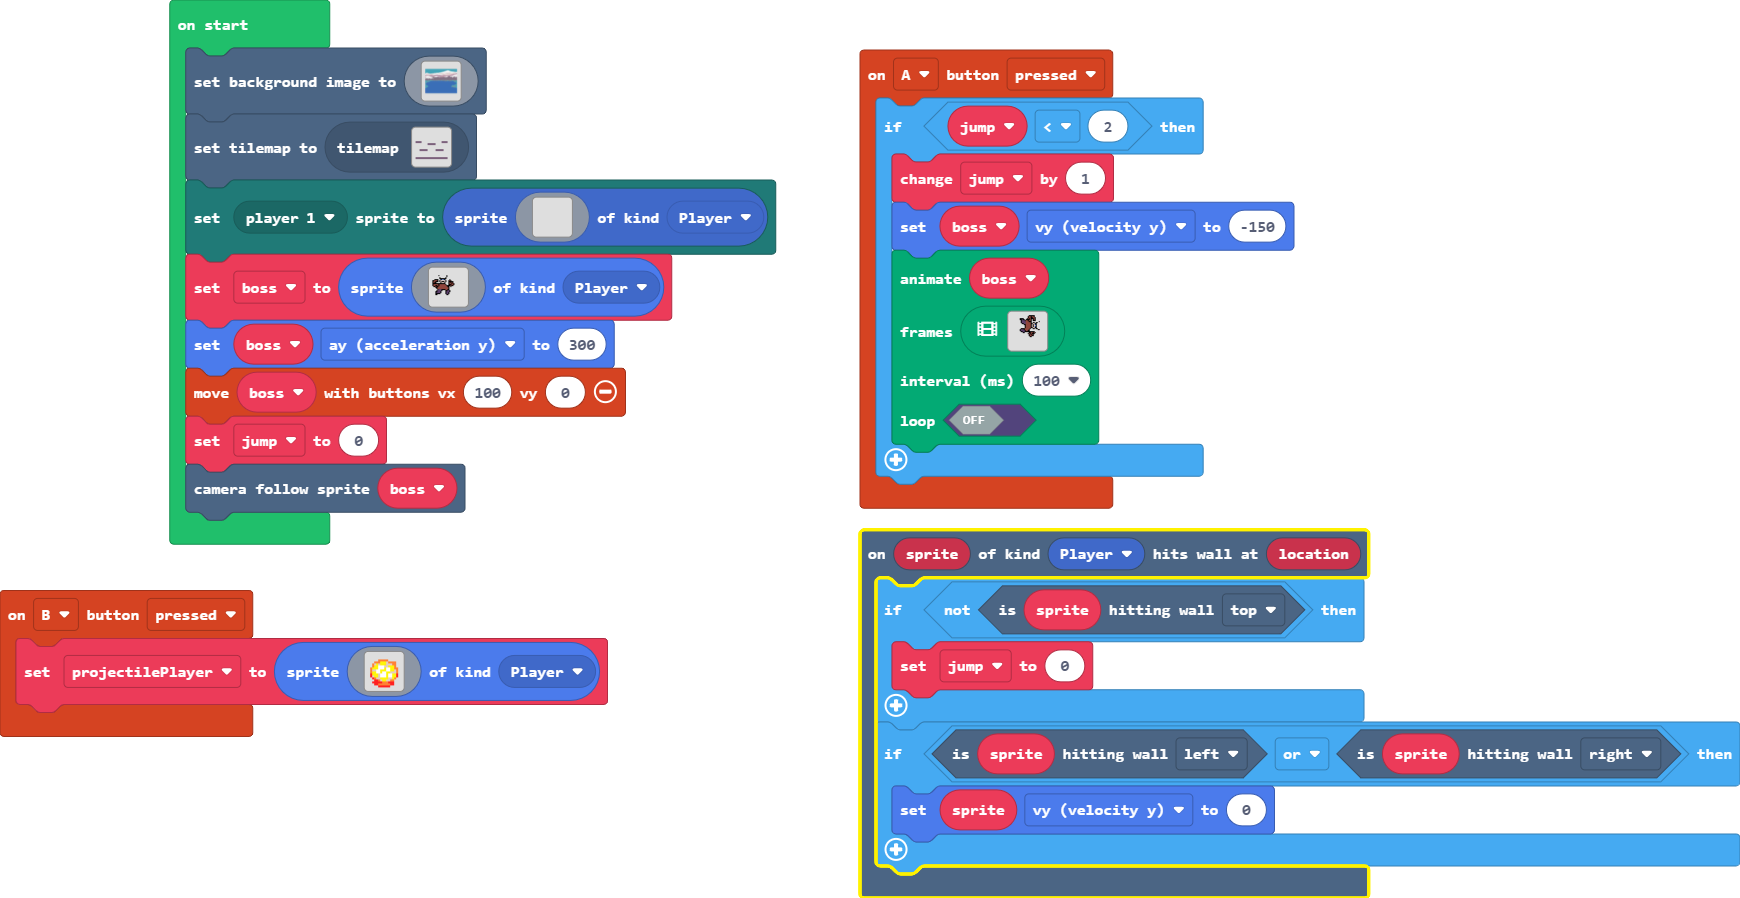
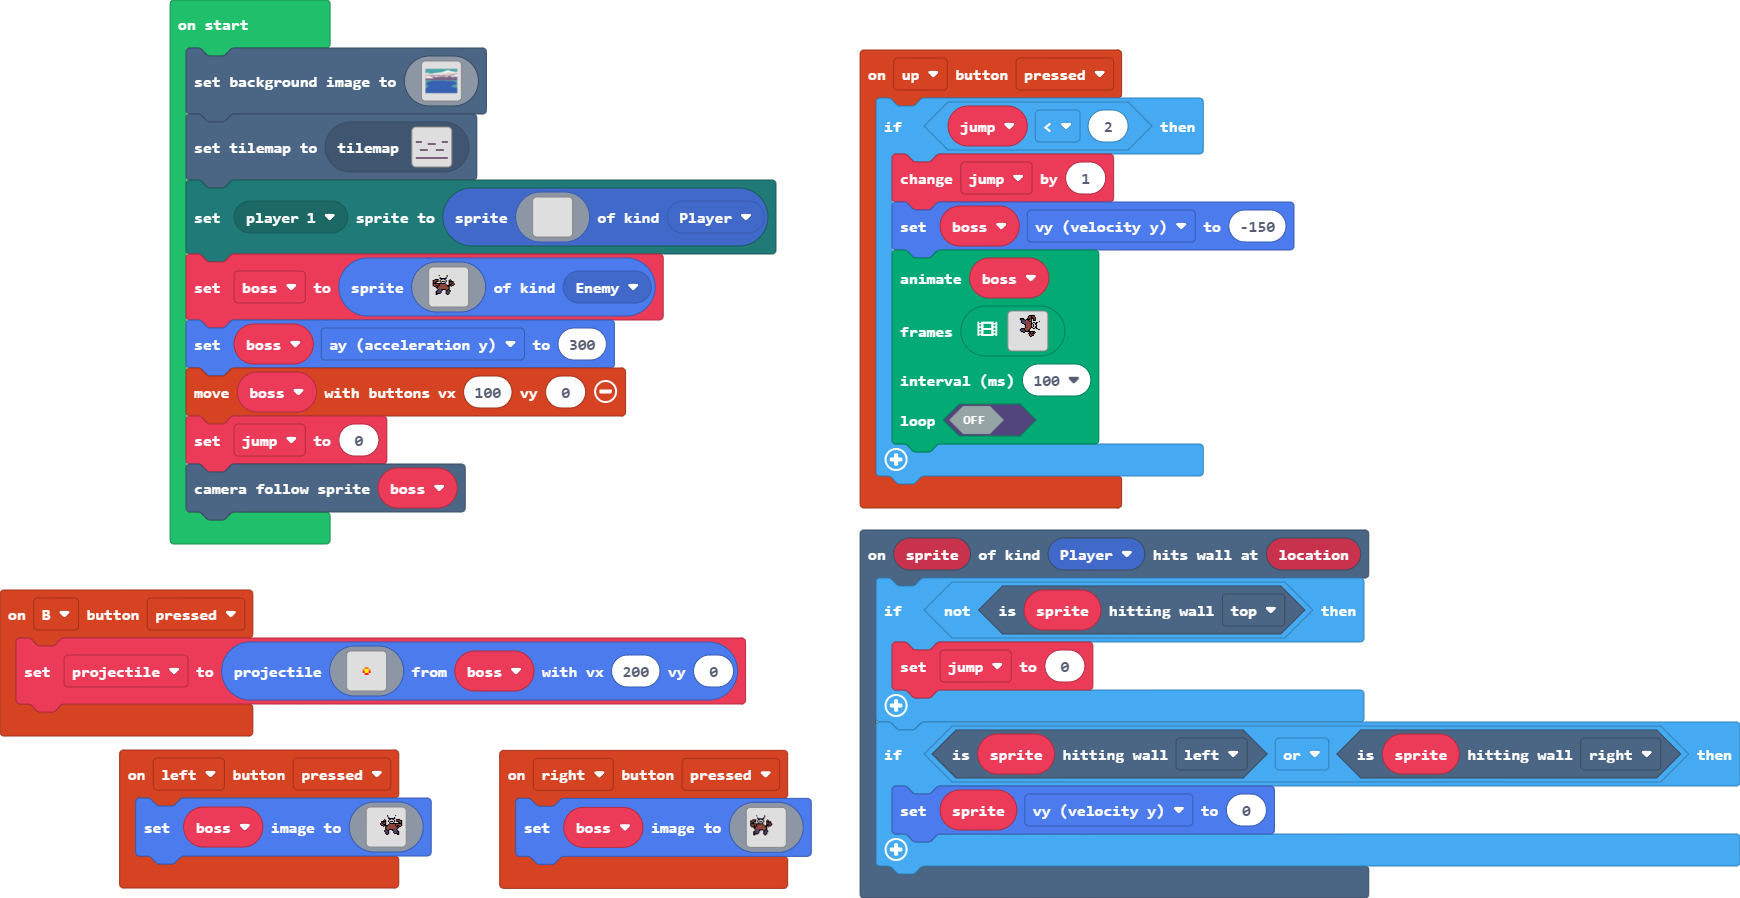
Update main.blocks, main.ts

diff --git a/main.ts b/main.ts
@@ -1,32 +1,4 @@
-scene.onHitWall(SpriteKind.Player, function (sprite, location) {
-    if (!(sprite.isHittingTile(CollisionDirection.Top))) {
-        jump = 0
-    }
-    if (sprite.isHittingTile(CollisionDirection.Left) || sprite.isHittingTile(CollisionDirection.Right)) {
-        sprite.vy = 0
-    }
-})
-controller.B.onEvent(ControllerButtonEvent.Pressed, function () {
-    projectilePlayer = sprites.create(img`
-        . . . . . . . . . . . . . . . . 
-        . . . . . . . . . . . . . . . . 
-        . . . . . 4 4 4 4 4 . . . . . . 
-        . . . 4 4 4 5 5 5 d 4 4 4 4 . . 
-        . . 4 d 5 d 5 5 5 d d d 4 4 . . 
-        . . 4 5 5 1 1 1 d d 5 5 5 4 . . 
-        . 4 5 5 5 1 1 1 5 1 1 5 5 4 4 . 
-        . 4 d d 1 1 5 5 5 1 1 5 5 d 4 . 
-        . 4 5 5 1 1 5 1 1 5 5 d d d 4 . 
-        . 2 5 5 5 d 1 1 1 5 1 1 5 5 2 . 
-        . 2 d 5 5 d 1 1 1 5 1 1 5 5 2 . 
-        . . 2 4 d d 5 5 5 5 d d 5 4 . . 
-        . . . 2 2 4 d 5 5 d d 4 4 . . . 
-        . . 2 2 2 2 2 4 4 4 2 2 2 . . . 
-        . . . 2 2 4 4 4 4 4 4 2 2 . . . 
-        . . . . . 2 2 2 2 2 2 . . . . . 
-        `, SpriteKind.Player)
-})
-controller.A.onEvent(ControllerButtonEvent.Pressed, function () {
+controller.up.onEvent(ControllerButtonEvent.Pressed, function () {
     if (jump < 2) {
         jump += 1
         boss.vy = -150
@@ -170,7 +142,107 @@ controller.A.onEvent(ControllerButtonEvent.Pressed, function () {
         )
     }
 })
-let projectilePlayer: Sprite = null
+scene.onHitWall(SpriteKind.Player, function (sprite, location) {
+    if (!(sprite.isHittingTile(CollisionDirection.Top))) {
+        jump = 0
+    }
+    if (sprite.isHittingTile(CollisionDirection.Left) || sprite.isHittingTile(CollisionDirection.Right)) {
+        sprite.vy = 0
+    }
+})
+controller.B.onEvent(ControllerButtonEvent.Pressed, function () {
+    projectile = sprites.createProjectileFromSprite(img`
+        . . . . . . . . . . . . . . . . 
+        . . . . . . . . . . . . . . . . 
+        . . . . . . . . . . . . . . . . 
+        . . . . . . . . . . . . . . . . 
+        . . . . . . . . . . . . . . . . 
+        . . . . . . . . . . . . . . . . 
+        . . . . . . . 4 4 . . . . . . . 
+        . . . . . . 4 5 5 4 . . . . . . 
+        . . . . . . 2 5 5 2 . . . . . . 
+        . . . . . . . 2 2 . . . . . . . 
+        . . . . . . . . . . . . . . . . 
+        . . . . . . . . . . . . . . . . 
+        . . . . . . . . . . . . . . . . 
+        . . . . . . . . . . . . . . . . 
+        . . . . . . . . . . . . . . . . 
+        . . . . . . . . . . . . . . . . 
+        `, boss, 200, 0)
+})
+controller.left.onEvent(ControllerButtonEvent.Pressed, function () {
+    boss.setImage(img`
+        ................................
+        ................................
+        ................................
+        ................................
+        .................f.......f......
+        .................f..............
+        ..................f.....f.......
+        ..................fffffff.......
+        ..............f....f8d8f..ffff..
+        .............fef..fdddddf.feeeff
+        ...........fffff..fdfffdf.fffeef
+        ...........fefef...fdddf....ffef
+        ..........fefeef...fffffffffffff
+        ..........feefff..feeeeeefeeeeef
+        ...........ffeffffeeeeeeefeffeef
+        .............f.ffeeeeeeeeeffeff.
+        ...............feeeeeeeeeeeff...
+        ...............feeeeeeeeeeef....
+        ...............ffeeffffcccf.....
+        ..............fccff...fccccf....
+        ..............fcccf....fcccff...
+        ...............fccf....fccccf...
+        ...............fccf.....fffff...
+        ................ff.........ff...
+        ................................
+        ................................
+        ................................
+        ................................
+        ................................
+        ................................
+        ................................
+        ................................
+        `)
+})
+controller.right.onEvent(ControllerButtonEvent.Pressed, function () {
+    boss.setImage(img`
+        ................................
+        ................................
+        ................................
+        ................................
+        ......f.......f.................
+        ..............f.................
+        .......f.....f..................
+        .......fffffff..................
+        ..ffff..f8d8f....f..............
+        ffeeef.fdddddf..fef.............
+        feefff.fdfffdf..fffff...........
+        feff....fdddf...fefef...........
+        fffffffffffff...feefef..........
+        feeeeefeeeeeef..fffeef..........
+        feeffefeeeeeeeffffeff...........
+        .ffeffeeeeeeeeeff.f.............
+        ...ffeeeeeeeeeeef...............
+        ....feeeeeeeeeeef...............
+        .....fcccffffeeff...............
+        ....fccccf...ffccf..............
+        ...ffcccf....fcccf..............
+        ...fccccf....fccf...............
+        ...fffff.....fccf...............
+        ...ff.........ff................
+        ................................
+        ................................
+        ................................
+        ................................
+        ................................
+        ................................
+        ................................
+        ................................
+        `)
+})
+let projectile: Sprite = null
 let jump = 0
 let boss: Sprite = null
 scene.setBackgroundImage(img`
@@ -363,7 +435,7 @@ boss = sprites.create(img`
     ................................
     ................................
     ................................
-    `, SpriteKind.Player)
+    `, SpriteKind.Enemy)
 boss.ay = 300
 controller.moveSprite(boss, 100, 0)
 jump = 0
